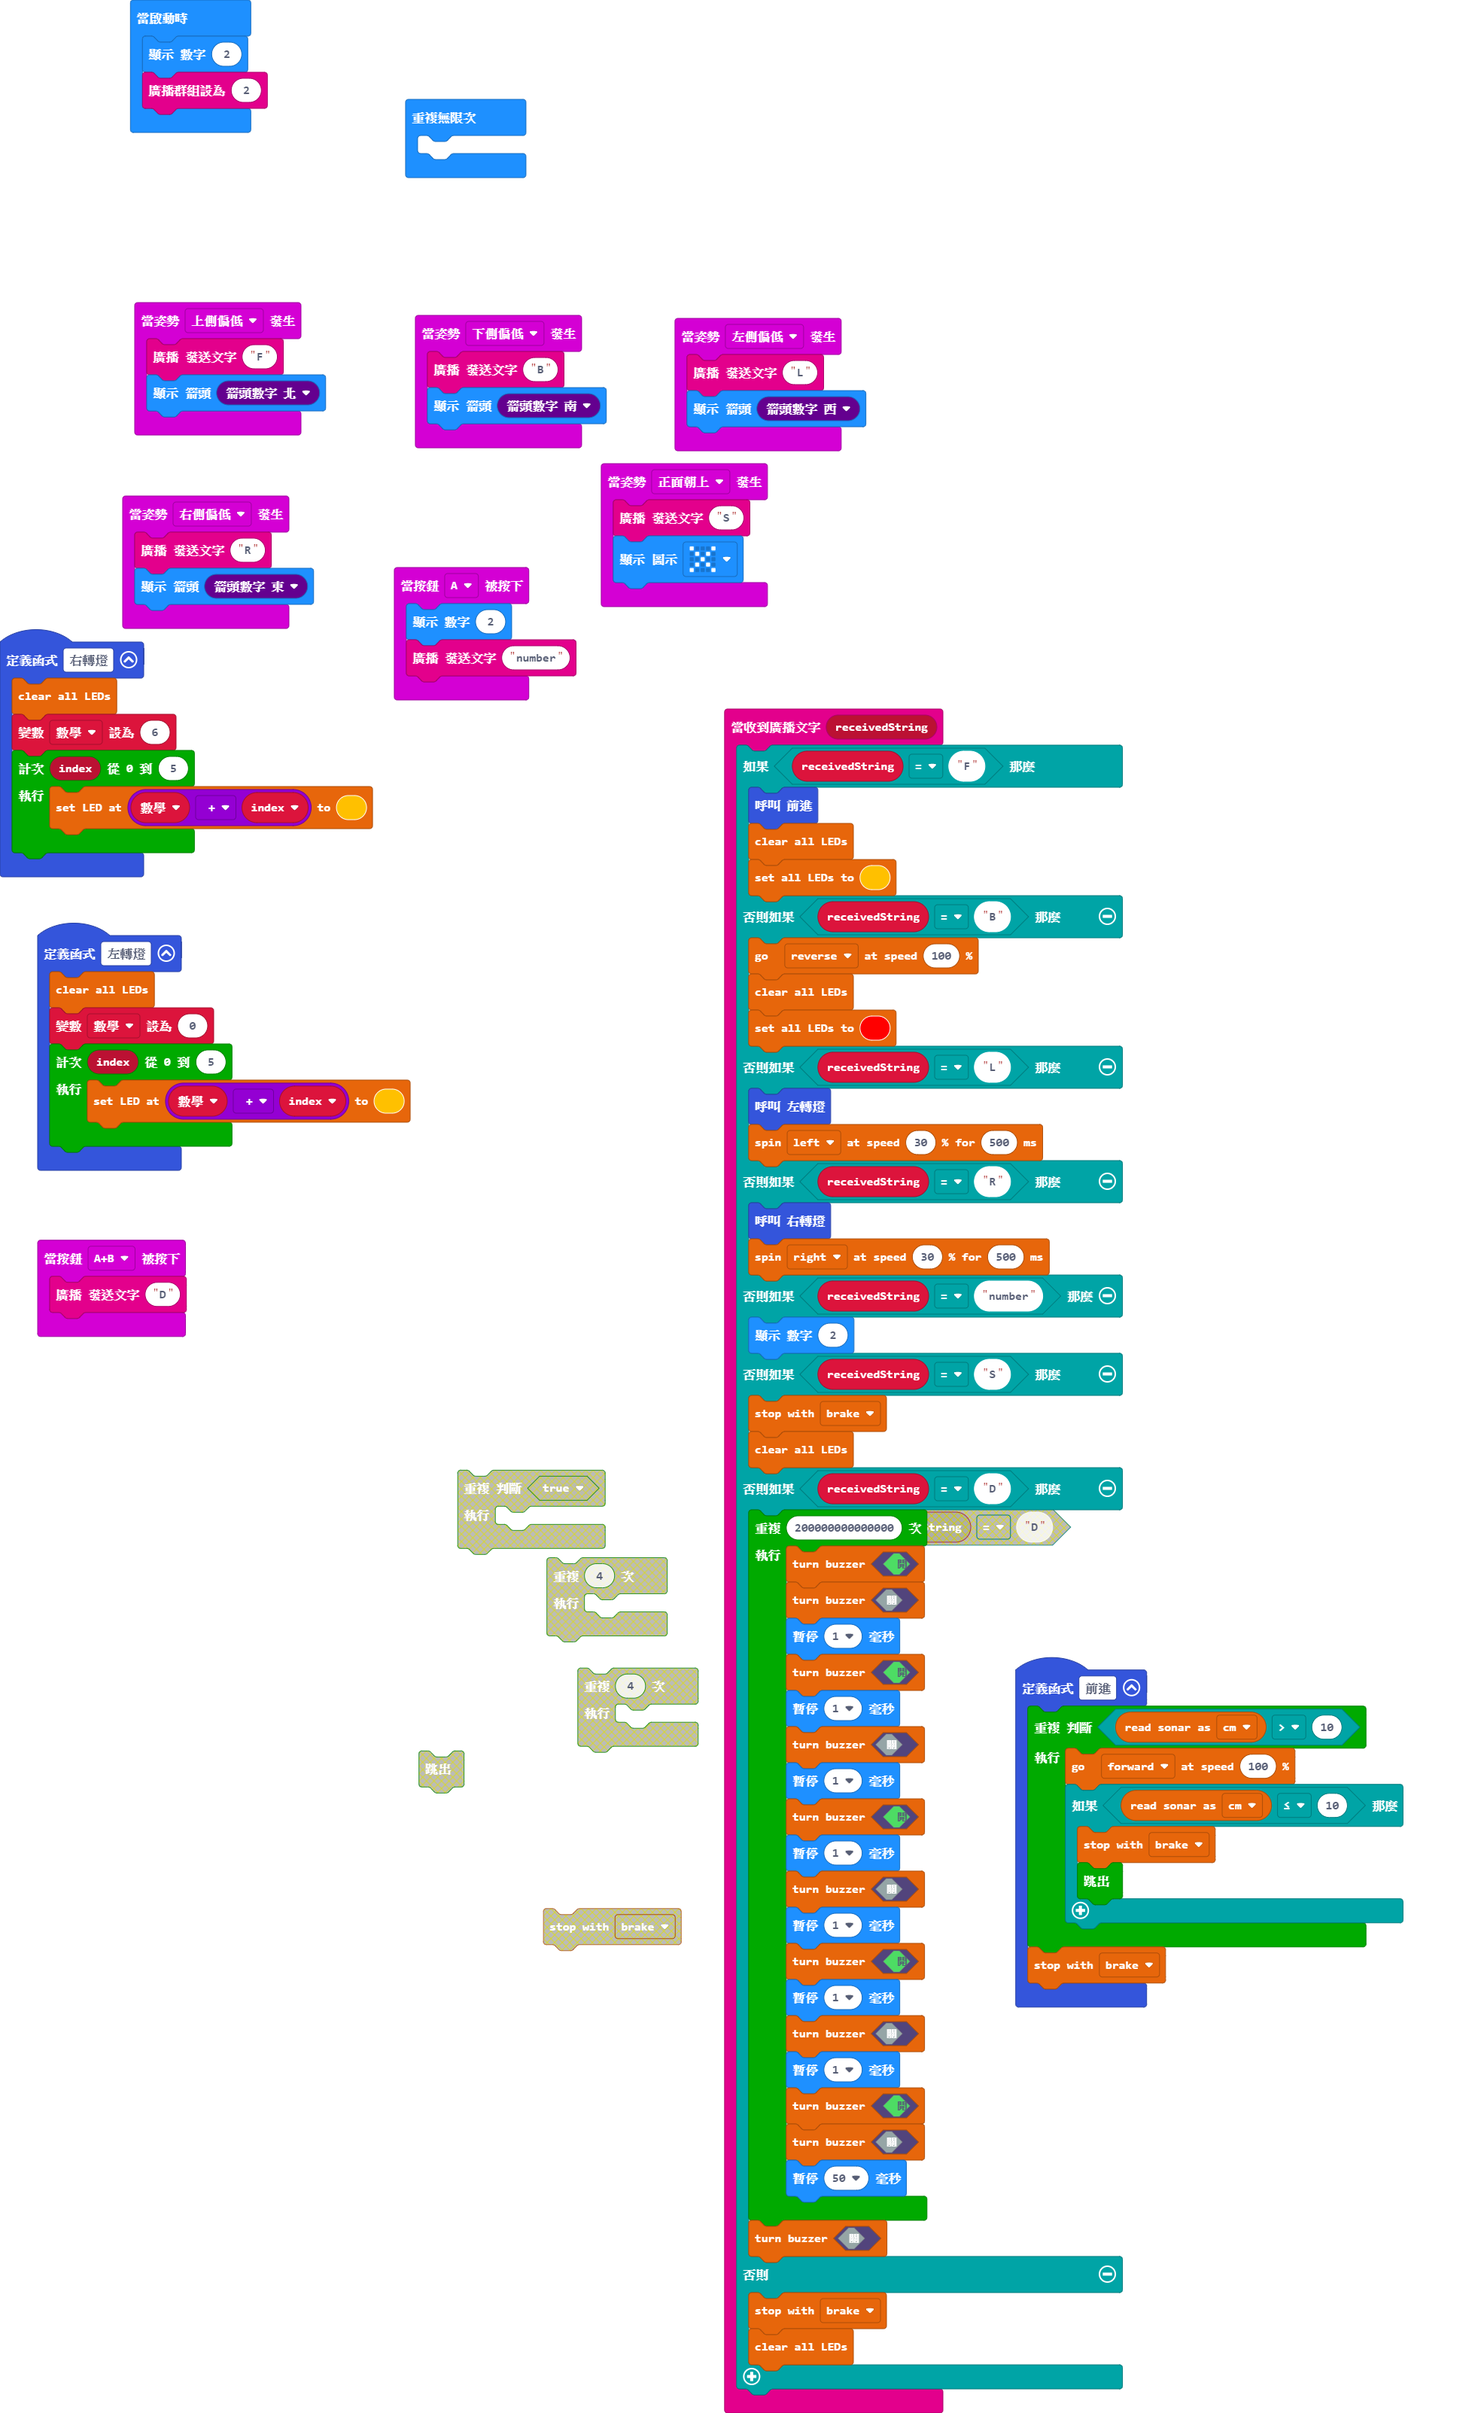
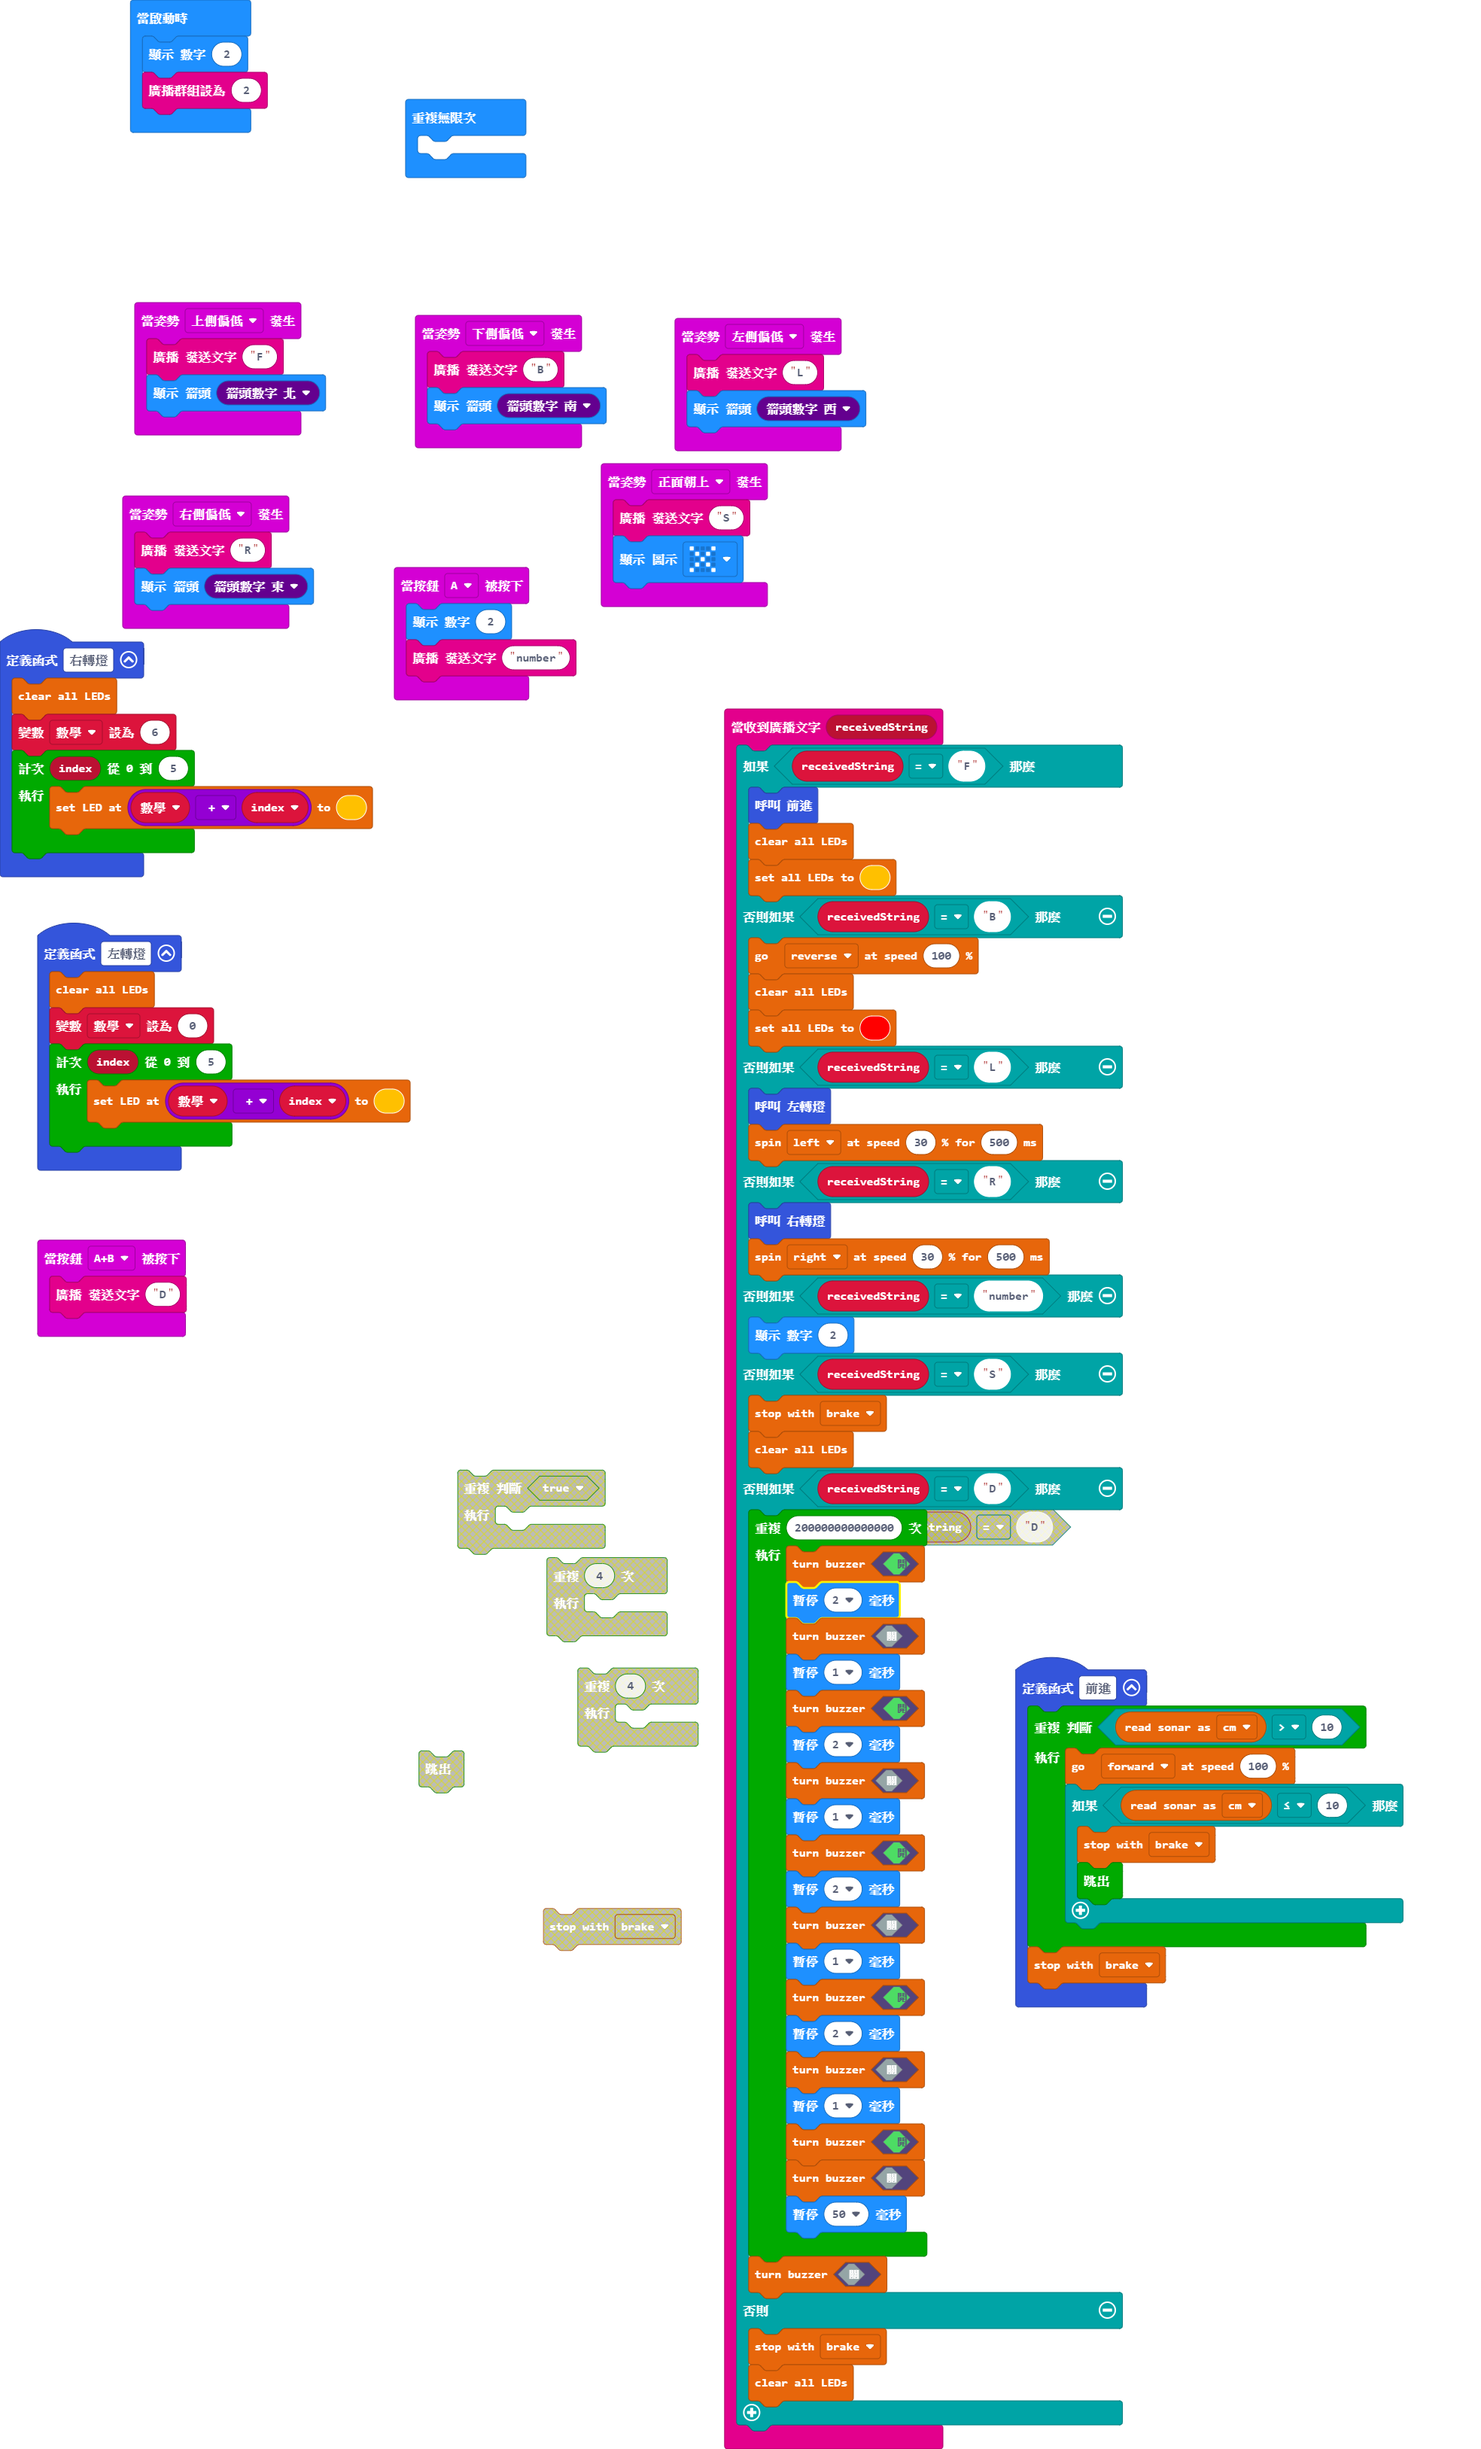
Update main.blocks, main.ts

diff --git a/main.ts b/main.ts
@@ -61,18 +61,19 @@ radio.onReceivedString(function (receivedString) {
     } else if (receivedString == "D") {
         for (let index = 0; index < 200000000000000; index++) {
             bitbot.buzz(true)
+            basic.pause(2)
             bitbot.buzz(false)
             basic.pause(1)
             bitbot.buzz(true)
-            basic.pause(1)
+            basic.pause(2)
             bitbot.buzz(false)
             basic.pause(1)
             bitbot.buzz(true)
-            basic.pause(1)
+            basic.pause(2)
             bitbot.buzz(false)
             basic.pause(1)
             bitbot.buzz(true)
-            basic.pause(1)
+            basic.pause(2)
             bitbot.buzz(false)
             basic.pause(1)
             bitbot.buzz(true)
